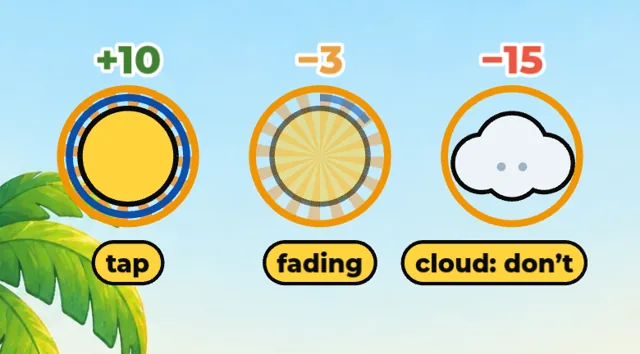
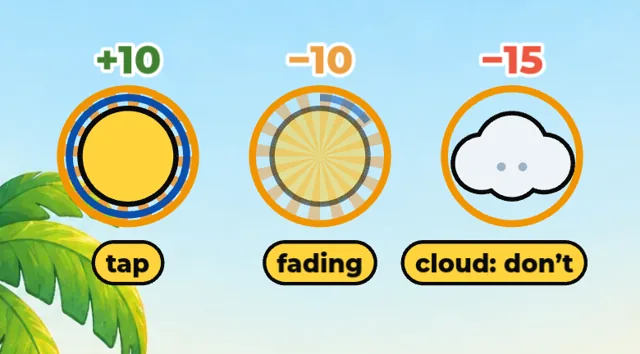
Add files via upload

Changed region(s): [[0.4375, 0.1243, 0.5625, 0.2175]]

diff --git a/src/modules/sunny-tap/GameScene.js b/src/modules/sunny-tap/GameScene.js
@@ -1,11 +1,12 @@
-// Sunny Tap gameplay (build pack RS1 v1.1). Rules: ./rules.js (port of tests/sunny-tap-reference.py) · brief: ./README.md
-// A 10 s unscored warm-up, then one 1:50 round on a visible clock: Fair · Wipeout · Fair · Wipeout · Fair · Wipeout · Fair.
-// No phase labels, no retry. Tap a sun +10 · a sun fades −3 · a cloud or the empty sky −15 · the score never goes below 0.
+// Sunny Tap gameplay (build pack RS1 v1.2). Rules: ./rules.js (port of tests/sunny-tap-reference.py) · brief: ./README.md
+// A 10 s unscored warm-up, then 4 rounds of Fair 20 s + Wipeout 10 s on a visible 2:00 clock, each followed by a mini-report
+// (gained · faded · mis-taps · net + the score line). The game clock stops during a report. No phase labels, no retry.
+// Tap a sun +10 · a sun fades −10 · a cloud or the empty sky −15 · the score never goes below 0.
 import { ModuleScene } from '../../core/ModuleScene.js';
 import { C, hex } from '../../core/theme.js';
 import { sfx } from '../../core/sfx.js';
 import { charImg } from '../../core/ui/dom.js';
-import { schedule, wipeoutEvents, warmupEvents, scoreRound, phaseOf, PHASES, PTS, ROUND_S, WARMUP_S, OFFICIAL_SEED, CASUAL_SEED, FAIR } from './rules.js';
+import { schedule, wipeoutEvents, warmupEvents, scoreRound, roundReport, phaseOf, PHASES, PTS, ROUND_S, WARMUP_S, ROUNDS, ROUND_LEN, OFFICIAL_SEED, CASUAL_SEED, FAIR, WIPE } from './rules.js';
 import bgUrl from './assets/bg-beach.webp';
 
 const q = new URLSearchParams(location.search);
@@ -13,6 +14,7 @@ const SPEED = (location.hostname === 'localhost' || q.get('mock') === '1') && Nu
 const SKY = { x0: 0, x1: 720, y0: 0, y1: 1280 }; // event x/y are fractions of the design space
 const R_SUN = 54, HIT_R = 70;
 const PRACTICE_S = 20;
+const AUTO_CONTINUE_MS = 20000; // a mini-report continues by itself after 20 s
 
 export default class GameScene extends ModuleScene {
   preload() {
@@ -31,6 +33,7 @@ export default class GameScene extends ModuleScene {
     this.calm = !this.tut && (this.options.wipeouts ? this.options.wipeouts === 'off' : this.casual);
     this.seed = this.calm || this.tut ? CASUAL_SEED : OFFICIAL_SEED;
     this.stage = 'intro'; this.live = []; this.taps = []; this.fades = []; this.points = 0; this.idx = 0; this.events_ = [];
+    this.repMs = 0; this.repStart = null; this.reports = []; this.line = [[0, 0]]; this.reportLayer = null;
     this.clock = this.pill(W / 2, 64, 200, this.fmtS(this.tut ? PRACTICE_S : ROUND_S), 40);
     this.scoreT = this.txt(W / 2, 168, '0', { fontSize: '64px', color: C.ink, stroke: C.white, strokeThickness: 10 }).setDepth(900);
     this.scoreL = this.txt(W / 2, 214, 'points', { fontSize: '24px', fontStyle: '700', color: C.ink, stroke: C.white, strokeThickness: 6 }).setDepth(900);
@@ -50,7 +53,11 @@ export default class GameScene extends ModuleScene {
   }
   fmtS(s) { const k = Math.max(0, Math.ceil(s - 1e-9)); return `${Math.floor(k / 60)}:${String(k % 60).padStart(2, '0')}`; }
   /** Seconds on the current stage's clock (wall clock minus pauses, like the core round timer; test builds may run faster). */
-  now() { return this.startedAt ? ((performance.now() - this.startedAt - this.pausedMs - (this.pauseStart != null ? performance.now() - this.pauseStart : 0)) / 1000) * SPEED - this.stageT0 : 0; }
+  now() {
+    if (!this.startedAt) return 0;
+    const p = performance.now(), held = this.repMs + (this.repStart != null ? p - this.repStart : 0); // mini-reports stop the game clock
+    return ((p - this.startedAt - this.pausedMs - (this.pauseStart != null ? p - this.pauseStart : 0) - held) / 1000) * SPEED - this.stageT0;
+  }
 
   // ---------------------------------------------------------------- flow
   onStart() {
@@ -69,7 +76,7 @@ export default class GameScene extends ModuleScene {
       this.events_ = schedule(this.seed, null, true).filter((e) => e.t < PRACTICE_S); this.stageLen = PRACTICE_S; this.banner.setText('');
     } else if (stage === 'round') {
       this.events_ = this.calm ? schedule(this.seed, null, true) : schedule(this.seed).filter((e) => e.phase[0] === 'F'); // wipeouts join after F1
-      this.stageLen = ROUND_S; this.banner.setText(''); this.points = 0; this.scoreT.setText('0'); this.lastPhase = null;
+      this.stageLen = ROUND_S; this.banner.setText(''); this.points = 0; this.scoreT.setText('0'); this.lastPhase = null; this.line = [[0, 0]]; this.nextReport = 1;
     }
   }
 
@@ -85,7 +92,8 @@ export default class GameScene extends ModuleScene {
 
   tick() {
     if (this.frozen || this.ended || !['warm', 'practice', 'round'].includes(this.stage)) return;
-    const t = this.now();
+    let t = this.now();
+    if (this.stage === 'round' && this.nextReport <= ROUNDS && t >= this.nextReport * ROUND_LEN) t = this.nextReport * ROUND_LEN; // never run past a report
     if (this.stage === 'round' && !this.calm && !this.wipesAdded && t >= 20) this.addWipeouts();
     while (this.idx < this.events_.length && this.events_[this.idx].t <= t) this.spawn(this.events_[this.idx++]);
     for (const o of [...this.live]) {
@@ -95,6 +103,7 @@ export default class GameScene extends ModuleScene {
     }
     if (this.stage === 'round') {
       this.clock.text.setText(this.fmtS(ROUND_S - t));
+      if (this.nextReport <= ROUNDS && t >= this.nextReport * ROUND_LEN) return this.showReport(this.nextReport++);
       const ph = phaseOf(t);
       if (ph !== this.lastPhase) { this.phaseChange(this.lastPhase, ph, t); this.lastPhase = ph; }
     } else if (this.stage === 'practice') this.clock.text.setText(this.fmtS(PRACTICE_S - t));
@@ -108,7 +117,7 @@ export default class GameScene extends ModuleScene {
     const rest = this.events_.slice(this.idx);
     this.wipes = wipeoutEvents(this.seed, this.f1HitRate);
     this.events_ = [...this.events_.slice(0, this.idx), ...[...rest, ...this.wipes].sort((p, q) => p.t - q.t)];
-    this.wipeRate = Math.max(4, 2.5 * this.f1HitRate);
+    this.wipeRate = Math.max(WIPE.min_rate, WIPE.adapt * this.f1HitRate);
   }
 
   phaseChange(prev, ph, t) {
@@ -117,6 +126,50 @@ export default class GameScene extends ModuleScene {
       if (this.points < (this.pointsAtWipe ?? 0)) { this.say('worried'); this.time.delayedCall(1500 / SPEED, () => !this.ended && this.say('happy')); }
     }
     if (ph && ph[0] === 'W') this.pointsAtWipe = this.points;
+  }
+
+  // ---------------------------------------------------------------- mini-reports (v1.2)
+  showReport(n) {
+    this.repStart = performance.now(); this.reportOpen = n; this.frozen = true;
+    const r = roundReport(this.taps, this.fades, n), a = (n - 1) * ROUND_LEN, b = n * ROUND_LEN;
+    this.reports.push(r); this.trace('st_report', { ...r, points: this.points });
+    const { W } = this, c = this.add.container(0, 0).setDepth(1100); this.reportLayer = c;
+    c.add(this.add.rectangle(W / 2, this.H / 2, W * 4, this.H * 4, 0x0b0b0b, 0.45).setInteractive());
+    c.add(this.add.graphics().fillStyle(hex(C.ink), 1).fillRoundedRect(50, 300, 620, 700, 34).fillStyle(hex(C.white), 1).fillRoundedRect(50, 290, 620, 700, 34).lineStyle(5, hex(C.ink), 1).strokeRoundedRect(50, 290, 620, 700, 34));
+    c.add(this.txt(W / 2, 350, `Round ${n} of ${ROUNDS}`, { fontSize: '40px' }));
+    const rows = [['Suns tapped', r.gained, C.green], ['Suns faded', r.lostFaded, C.orange], ['Mis-taps', r.lostMisTaps, C.red]];
+    rows.forEach(([label, v, col], i) => {
+      c.add(this.txt(110, 420 + i * 52, label, { fontSize: '30px', fontStyle: '700', align: 'left' }).setOrigin(0, 0.5));
+      c.add(this.txt(610, 420 + i * 52, `${v > 0 ? '+' : v < 0 ? '−' : ''}${Math.abs(v)}`, { fontSize: '32px', color: col, align: 'right' }).setOrigin(1, 0.5));
+    });
+    c.add(this.add.graphics().lineStyle(3, hex(C.ink), 1).lineBetween(100, 572, 620, 572));
+    c.add(this.txt(110, 606, 'This round', { fontSize: '32px', align: 'left' }).setOrigin(0, 0.5));
+    c.add(this.txt(610, 606, `${r.net > 0 ? '+' : r.net < 0 ? '−' : ''}${Math.abs(r.net)}`, { fontSize: '36px', color: r.net < 0 ? C.red : C.green, align: 'right' }).setOrigin(1, 0.5));
+    // the score over this round's 30 s: the climb, then the crash
+    const X0 = 110, X1 = 610, Y0 = 800, Y1 = 660, pts = this.line.filter(([t]) => t >= a && t <= b), start = [...this.line].reverse().find(([t]) => t <= a)?.[1] ?? 0;
+    const series = [[a, start], ...pts, [b, pts.length ? pts.at(-1)[1] : start]], top = Math.max(10, ...series.map(([, v]) => v));
+    const g = this.add.graphics(); g.lineStyle(2, hex(C.charcoal), 0.6).lineBetween(X0, Y0, X1, Y0).lineBetween(X0, Y0, X0, Y1);
+    g.fillStyle(hex(C.sun), 0.18).fillRect(X0 + (X1 - X0) * (20 / 30), Y1, (X1 - X0) * (10 / 30), Y0 - Y1);
+    g.lineStyle(6, hex(C.blue), 1).beginPath();
+    series.forEach(([t, v], i) => { const x = X0 + ((t - a) / ROUND_LEN) * (X1 - X0), y = Y0 - (v / top) * (Y0 - Y1); if (i) g.lineTo(x, y); else g.moveTo(x, y); });
+    g.strokePath(); c.add(g);
+    c.add(this.txt(X0, Y0 + 24, 'score this round', { fontSize: '22px', fontStyle: '600', color: C.charcoal, align: 'left' }).setOrigin(0, 0.5));
+    c.add(this.txt(X1, Y0 + 24, `${this.points} points`, { fontSize: '22px', fontStyle: '700', align: 'right' }).setOrigin(1, 0.5));
+    const go = (auto) => this.continueReport(n, auto);
+    c.add(this.btn(W / 2, 910, n < ROUNDS ? 'Continue' : 'Done', () => go(false), { w: 320, h: 92, size: 34 }));
+    this.reportGo = () => go(false); // test hook
+    this.autoTimer = this.time.delayedCall(AUTO_CONTINUE_MS / SPEED, () => go(true));
+    this.snapshot(); // a page closed here records the quit-at-report
+  }
+
+  continueReport(n, auto) {
+    if (this.reportOpen !== n) return;
+    const latency = Math.round(performance.now() - this.repStart);
+    this.autoTimer?.remove(); this.reportGo = null; this.reportLayer?.destroy(true); this.reportLayer = null;
+    this.repMs += performance.now() - this.repStart; this.repStart = null; this.reportOpen = null; this.frozen = false;
+    (this.continues ||= []).push(auto ? -latency : latency);
+    this.trace('st_continue', { round: n, continueLatency: latency, auto });
+    if (n >= ROUNDS) this.stageEnd();
   }
 
   stageEnd() {
@@ -182,7 +235,7 @@ export default class GameScene extends ModuleScene {
 
   addPoints(d, x, y, color, t) {
     const inRound = (this.stage === 'round' && phaseOf(t)) || (this.stage === 'practice' && t < PRACTICE_S);
-    if (inRound) { this.points = Math.max(0, this.points + d); this.scoreT.setText(String(this.points)); }
+    if (inRound) { this.points = Math.max(0, this.points + d); this.scoreT.setText(String(this.points)); if (this.stage === 'round') this.line.push([t, this.points]); }
     const f = this.txt(x, y - 20, (d > 0 ? '+' : '−') + Math.abs(d), { fontSize: '36px', color, stroke: C.white, strokeThickness: 8 });
     this.fx.add(f);
     this.tweens.add({ targets: f, y: y - 90, alpha: 0, duration: 700 / SPEED, onComplete: () => f.destroy() });
@@ -192,13 +245,14 @@ export default class GameScene extends ModuleScene {
 
   /** Test hook: tap the oldest live sun (a steady player). */
   botStep() {
-    if (this.ended || !this.running || !['warm', 'practice', 'round'].includes(this.stage)) return false;
+    if (this.reportGo) { this.reportGo(); return true; }
+    if (this.ended || !this.running || this.frozen || !['warm', 'practice', 'round'].includes(this.stage)) return false;
     const sun = this.live.find((o) => o.e.kind === 'sun'); if (!sun) return false;
     this.tapAt(sun.x, sun.y); return true;
   }
 
   metrics() {
-    const quitAt = this.ended || this.stage === 'done' ? null : this.stage === 'round' ? this.now() : 0;
+    const quitAt = this.ended || this.stage === 'done' ? null : this.stage === 'round' ? Math.min(this.now(), ROUND_S) : 0;
     if (this.tut) return { points: this.points, hits: this.taps.filter((x) => x[1] === 'hit').length, flags: '' };
     const sched = this.stage === 'round' || this.stage === 'done' ? [...this.events_] : [];
     const m = scoreRound(this.taps, this.fades, sched, quitAt);
@@ -206,10 +260,14 @@ export default class GameScene extends ModuleScene {
     if (m.panicCarry) flags.push('panicCarry');
     if (m.resilienceScore == null) flags.push('notEnoughEvidence');
     if (this.calm) flags.push('calm');
+    if (this.reportOpen) flags.push('quitAtReport'); // only seen in a partial snapshot: the page closed while a mini-report was showing
+    const wipeTaps = ['W1', 'W2', 'W3', 'W4'].map((w) => this.taps.filter((tp) => phaseOf(tp[0]) === w).length);
     return {
       resilienceScore: m.resilienceScore, speedShock: r3n(m.speedShock), accuracyShock: r3n(m.accuracyShock), hold: r3n(m.hold), errorCarryover: m.errorCarryover,
       points: m.displayScore, accuracy: Object.fromEntries(Object.entries(m.accuracy).map(([k, v]) => [k, r3n(v)])),
       hits: this.taps.filter((x) => x[1] === 'hit').length, misTaps: this.taps.filter((x) => x[1] === 'miss').length, fades: this.fades.length,
+      reports: this.reports.map((r) => [r.gained, r.lostFaded, r.lostMisTaps, r.net]), continueLatency: this.continues || [], atReport: this.reportOpen || '',
+      wipeTaps, // passivity in wipeouts (logged only)
       f1HitRate: this.f1HitRate ?? '', wipeRate: this.calm ? 0 : this.wipeRate ?? '', seed: this.seed, calm: this.calm,
       tapLog: this.taps.map((tp) => `${r3(tp[0])}${tp[1] === 'hit' ? 'h' + tp[2] : 'm'}`).join(' '), fadeLog: this.fades.map(r3).join(' '),
       flags: flags.join(','),
@@ -222,16 +280,16 @@ export default class GameScene extends ModuleScene {
     const put = (kind, fx, fy, k = 1) => { const e = { t: 0, kind, life: 1.6, x: fx, y: fy }; this.spawn(e); const o = this.live.at(-1); o.c.setScale(1); this.tweens.killTweensOf(o.c);
       if (o.ring) { o.ring.clear().lineStyle(8, hex(C.blue), 0.95).beginPath().arc(0, 0, R_SUN + 12, -Math.PI / 2, -Math.PI / 2 + k * Math.PI * 2).strokePath(); o.c.setAlpha(0.45 + 0.55 * k); } return o; };
     this.banner.setText(''); this.say('happy');
-    if (n === 0) { this.clock.text.setText('1:50'); this.scoreT.setText('120');
+    if (n === 0) { this.clock.text.setText('2:00'); this.scoreT.setText('120');
       put('sun', 0.25, 0.4); put('sun', 0.7, 0.3); put('sun', 0.55, 0.62, 0.6); put('cloud', 0.3, 0.7);
       this.callout(180, 512, 80, 'tap the suns', 180, 390); this.callout(360, 180, 60, 'your points', 560, 230); this.callout(360, 64, 56, 'the clock', 560, 140);
       return { x: 0, y: 20, w: 720, h: 1000 }; }
     if (n === 1) { this.scoreT.setText('120');
       const a = put('sun', 0.2, 0.45), b = put('sun', 0.5, 0.45, 0.15), c = put('cloud', 0.8, 0.45);
-      [[a, '+10', C.green], [b, '−3', C.orange], [c, '−15', C.red]].forEach(([o, s, col]) => this.callouts.push(this.txt(o.x, o.y - 110, s, { fontSize: '44px', color: col, stroke: C.white, strokeThickness: 8 }).setDepth(3001)));
+      [[a, '+10', C.green], [b, '−10', C.orange], [c, '−15', C.red]].forEach(([o, s, col]) => this.callouts.push(this.txt(o.x, o.y - 110, s, { fontSize: '44px', color: col, stroke: C.white, strokeThickness: 8 }).setDepth(3001)));
       this.callout(a.x, a.y, 76, 'tap', a.x, a.y + 120); this.callout(b.x, b.y, 76, 'fading', b.x, b.y + 120); this.callout(c.x, c.y, 76, 'cloud: don’t', c.x - 20, c.y + 120);
       return { x: 0, y: 400, w: 720, h: 400 }; }
-    if (n === 2) { this.clock.text.setText('1:50'); this.scoreT.setText('0'); this.banner.setText('Warm-up · it doesn’t count');
+    if (n === 2) { this.clock.text.setText('2:00'); this.scoreT.setText('0'); this.banner.setText('Warm-up · it doesn’t count');
       put('sun', 0.35, 0.45); put('sun', 0.7, 0.55, 0.5);
       this.callout(360, 300, 0, '↑ the first 10 seconds', 360, 372, 3000, false);
       return { x: 0, y: 20, w: 720, h: 760 }; }

diff --git a/src/modules/torch-talk/GameScene.js b/src/modules/torch-talk/GameScene.js
@@ -276,10 +276,12 @@ export default class GameScene extends ModuleScene {
   showNoteOverlay(highlightWords = null) {
     this.hideOverlay();
     const v = this.view();
-    const dim = this.add.rectangle(this.W / 2, this.H / 2, v.vw + 40, v.vh + 40, 0x0b0b0b, 0.45).setInteractive();
-    const n = this.noteCard(this.W / 2, this.L.noteY, 660, 300);
+    // alpha #36: the open note covers only the message area, so the word tiles below stay tappable while it's open
+    const nh = Math.max(200, Math.min(300, this.L.trayY - this.L.noteY - 56)), bottom = this.L.trayY - 8, top = v.top ?? this.L.noteY - 400;
+    const dim = this.add.rectangle(this.W / 2, (top + bottom) / 2, v.vw + 40, bottom - top, 0x0b0b0b, 0.45).setInteractive();
+    const n = this.noteCard(this.W / 2, this.L.noteY, 660, nh);
     this.noteWords = n.words;
-    const hint = this.txt(this.W / 2, this.L.noteY + 330, 'Tap anywhere to close', { fontSize: '24px', color: C.white });
+    const hint = this.txt(this.W / 2, this.L.noteY + nh + 22, 'Tap here to close · words below still work', { fontSize: '22px', color: C.white, stroke: C.ink, strokeThickness: 5 });
     this.overlay.add([dim, n, hint]);
     dim.on('pointerup', () => this.hideOverlay());
     this.trace('note_expand', { turn: this.turnIdx + 1 });
@@ -528,7 +530,7 @@ export default class GameScene extends ModuleScene {
       if (probe && this.mode === 'real') { rec.probe = probe; this.trace('learn_probe', { probe, pass: rec.pass, turn: rec.turn, itemId: it.id }); }
       rec.paraphrase = rec.pass && words.some((w) => !noteWords(it).has(norm(w))); // a correct message using words that aren't in the note
       this.trace('comm_message', { turn: rec.turn, itemId: rec.itemId, tag: rec.tag, words, ideal: rec.ideal, used: rec.used, pass: rec.pass, failReason: rec.failReason, usedShorthand: rec.usedShorthand });
-      outcome = it.mixup ? 'echo' : rec.pass ? 'pass' : 'fail';
+      outcome = it.mixup && rec.pass ? 'echo' : rec.pass ? 'pass' : 'fail'; // the scripted mix-up only follows a message that was understood (alpha #36)
     }
     this.phase = 'send';
     this.renderPanel();
@@ -688,10 +690,11 @@ export default class GameScene extends ModuleScene {
     this.clearCallouts(); this.hideOverlay(); this.bubble.setAlpha(0);
     const L = this.L;
     if (n === 0) { this.msg = this.item.ideal.slice(0, 2); this.renderPanel();
-      this.callout(360, L.noteY + Math.min(L.noteH, 200) / 2, 150, 'Noah’s note', 560, L.noteY - 10);
-      this.callout(200, L.trayY + L.tileH / 2, 70, 'tap words', 200, L.trayY - 40);
-      this.callout(530, L.btnY, 80, 'Send', 530, L.btnY - 100);
-      return [{ x: 0, y: L.noteY - 40, w: 720, h: L.trayY - L.noteY + 2 * L.tileH + 60 }, { x: 0, y: L.btnY - 160, w: 720, h: 230 }]; }
+      this.callout(96, L.noteY + 48, 40, 'Noah’s note', 300, L.noteY - 6, 3000, false); // small rings: never over the note's text (alpha #36)
+      this.callout(200, L.trayY + L.tileH / 2, 62, 'tap words', 200, L.trayY - 34);
+      this.callout(530, L.btnY, 76, 'Send', 530, L.btnY - 96);
+      const top = L.trayY + 2 * L.tileH + L.gap + 24; // the two crops never overlap, so no row is shown twice
+      return [{ x: 0, y: L.noteY - 40, w: 720, h: top - (L.noteY - 40) }, { x: 0, y: Math.max(top, L.btnY - 150), w: 720, h: L.btnY + 80 - Math.max(top, L.btnY - 150) }]; }
     if (n === 1) { this.renderPanel();
       this.callout(360, L.helpY + L.helpH / 2, 80, 'the 4 rules stay here', 360, L.helpY + 120);
       this.callout(this.W - 150, 64, 46, '? reopens this card', 440, 170);

diff --git a/src/modules/sunny-tap/rules.js b/src/modules/sunny-tap/rules.js
@@ -1,12 +1,13 @@
-// Sunny Tap rule engine: a port of tests/sunny-tap-reference.py (build pack RS1 v1.1). schedule() and scoreRound() must match
+// Sunny Tap rule engine: a port of tests/sunny-tap-reference.py (build pack RS1 v1.2). schedule() and scoreRound() must match
 // the reference exactly (tests/fixtures/sunny-tap-parity.json, from tools/st_parity_fixture.py), so Python's random.Random
 // (MT19937 + init_by_array, random(), uniform()) is reproduced bit for bit.
-export const PHASES = [['F1', 0, 20], ['W1', 20, 30], ['F2', 30, 50], ['W2', 50, 60], ['F3', 60, 80], ['W3', 80, 90], ['F4', 90, 110]];
-export const ROUND_S = 110, WARMUP_S = 10;
+// v1.2: 4 rounds of Fair 20 s + Wipeout 10 s = 2:00 of play; a mini-report after each round (the game clock stops).
+export const PHASES = [['F1', 0, 20], ['W1', 20, 30], ['F2', 30, 50], ['W2', 50, 60], ['F3', 60, 80], ['W3', 80, 90], ['F4', 90, 110], ['W4', 110, 120]];
+export const ROUND_S = 120, WARMUP_S = 10, ROUNDS = 4, ROUND_LEN = 30;
 export const POST = PHASES.filter(([n]) => n[0] === 'F' && n !== 'F1').map(([n]) => n);
 export const FAIR = { sun_every: 0.5, sun_life: 1.6, cloud_every: 4.0, cloud_life: 1.6 };
-export const WIPE = { min_rate: 4.0, adapt: 2.5, sun_life: 0.8, cloud_share: 0.3 };
-export const PTS = { hit: 10, fade: -3, miss: -15 };
+export const WIPE = { min_rate: 7.0, adapt: 4.5, sun_life: 0.6, cloud_share: 0.25 }; // v1.2: every skill level nets ~0 or less per round
+export const PTS = { hit: 10, fade: -10, miss: -15 }; // v1.2: a faded sun costs as much as a caught one earns
 export const EARLY = 8.0;
 export const OFFICIAL_SEED = 2026, CASUAL_SEED = 2027; // casual runs never see the official fair schedule (request #26)
 
@@ -84,6 +85,14 @@ export function warmupEvents(seed = OFFICIAL_SEED) {
   return byT(ev);
 }
 export function phaseOf(t) { for (const [n, a, b] of PHASES) if (a <= t && t < b) return n; return null; }
+
+/** The mini-report after round n (1–4): gained · lost to fades · lost to mis-taps · net (the reference's round_report). */
+export function roundReport(taps, fades, n) {
+  const a = (n - 1) * ROUND_LEN, b = n * ROUND_LEN;
+  const g = taps.filter((tp) => tp[1] === 'hit' && a <= tp[0] && tp[0] < b).length * PTS.hit, m = taps.filter((tp) => tp[1] === 'miss' && a <= tp[0] && tp[0] < b).length * PTS.miss;
+  const f = fades.filter((t) => a <= t && t < b).length * PTS.fade;
+  return { round: n, gained: g + 0, lostFaded: f + 0, lostMisTaps: m + 0, net: g + f + m + 0 }; // + 0 turns -0 into 0
+}
 
 const median = (xs) => { const s = [...xs].sort((p, q) => p - q), m = s.length >> 1; return s.length % 2 ? s[m] : (s[m - 1] + s[m]) / 2; };
 const sum = (xs) => xs.reduce((p, q) => p + q, 0);

diff --git a/src/modules/sunny-tap/index.js b/src/modules/sunny-tap/index.js
@@ -1,4 +1,4 @@
-// Sunny Tap · resilience (Liam). Brief: ./README.md · build pack: 11-game-concepts.md (RS1 v1.1). Always played last (request #25).
+// Sunny Tap · resilience (Liam). Brief: ./README.md · build pack: 11-game-concepts.md (RS1 v1.2). Always played last (request #25).
 // How-to images are screenshots of the real game UI with callouts: regenerate with `node tools/make-howto-shots.mjs sunny-tap`.
 // The how-to never mentions the wipeouts (the consent line and the end-of-suite debrief cover them).
 import s0 from './assets/howto-0.webp';
@@ -7,7 +7,7 @@ import s2 from './assets/howto-2.webp';
 
 export default {
   id: 'sunny-tap',
-  version: 2, // v1 was the retired "Sunny Tap" test module
+  version: 3, // v3 = v1.2: 4 rounds + mini-reports, fade −10, harder wipeouts (#37); v2 = v1.1; v1 was the retired test module
   title: 'Sunny Tap',
   tagline: 'Tap the suns before they fade. How many points can you keep?',
   trait: 'resilience',
@@ -16,14 +16,14 @@ export default {
   estMinutes: 3,
   playLast: true, // run order: always the final game (request #25)
   logEvents: [], // v1.8 policy: st_* events go to the round trace + tapLog / fadeLog
-  summaryKeys: ['resilienceScore', 'speedShock', 'accuracyShock', 'hold', 'errorCarryover', 'points', 'flags'],
+  summaryKeys: ['resilienceScore', 'speedShock', 'accuracyShock', 'hold', 'errorCarryover', 'points', 'continueLatency', 'flags'],
   howTo: [
-    { title: 'Your goal', body: 'Tap the suns before they fade. Score as many points as you can in 1:50.', shot: s0 },
-    { title: 'Suns yes, clouds no', body: 'Sun = +10. A sun that fades = −3. Tapping a cloud or the empty sky = −15.', shot: s1 },
+    { title: 'Your goal', body: 'Tap the suns before they fade. Score as many points as you can in 4 short rounds (2:00 in all). After each round you’ll see how it went.', shot: s0 },
+    { title: 'Suns yes, clouds no', body: 'Sun = +10. A sun that fades = −10. Tapping a cloud or the empty sky = −15.', shot: s1 },
     { title: 'Warm up first', body: 'A 10-second warm-up comes first. It doesn’t count.', shot: s2 },
   ],
   practice: { durationSec: null, showTimer: false, scored: false }, // 20 s at the fair pace
-  round: { durationSec: null, showTimer: false }, // the scene draws its own 1:50 clock
+  round: { durationSec: null, showTimer: false }, // the scene draws its own 2:00 clock (stopped during the mini-reports)
   metrics: [
     { key: 'points', label: 'Points', unit: '', primary: true, higherIsBetter: true },
     { key: 'hits', label: 'Suns tapped', unit: '' },

diff --git a/src/modules/fix-it-kit/GameScene.js b/src/modules/fix-it-kit/GameScene.js
@@ -15,7 +15,7 @@ const ms = (x) => x / SPEED;
 const IDLE_MS = 20000;
 const IMGS = import.meta.glob('./assets/{kit,prob}-*.webp', { eager: true, import: 'default' });
 const img = (name) => IMGS[`./assets/${name}.webp`];
-const L0 = { probY: 124, probH: 270, miaY: 470, trayY: 560, trayH: 200, btnY: 812, kitY: 900, cellW: 164, cellH: 170 };
+const L0 = { probY: 124, probH: 270, miaY: 470, trayY: 560, trayH: 200, btnY: 830, kitY: 900, cellW: 164, cellH: 170 }; // buttons sit in the gap between the tray and the kit (alpha #36)
 /** Practice: learn by doing (find 2 different fixes; fail-safe after 4 tries shows one working fix). */
 let L = L0;
 export const practiceMemo = { done: false, tries: 0, failSafe: false };
@@ -47,8 +47,8 @@ export default class GameScene extends ModuleScene {
     this.bubble = this.add.container(0, 0).setDepth(26);
     this.trayC = this.add.container(0, 0).setDepth(30);
     this.kitC = this.add.container(0, 0).setDepth(30);
-    this.tryBtn = this.btn(270, L.btnY, 'Try it', () => this.tryIt(), { w: 330, h: 96, size: 36, fill: C.sun }).setDepth(40);
-    this.doneBtn = this.btn(590, L.btnY, 'Done', () => this.done(), { w: 190, h: 80, size: 28, fill: C.white }).setDepth(40);
+    this.tryBtn = this.btn(250, L.btnY, 'Try it', () => this.tryIt(), { w: 360, h: 74, size: 34, fill: C.sun }).setDepth(40).setVisible(false);
+    this.doneBtn = this.btn(580, L.btnY, 'Done', () => this.done(), { w: 220, h: 74, size: 30, fill: C.white }).setDepth(40).setVisible(false); // shown with the first problem, not during the 3-2-1 (alpha #36)
     this.overlay = this.add.container(0, 0).setDepth(1100);
     this.input.on('dragstart', (p, o) => { o.setDepth(60); o.homeX = o.x; o.homeY = o.y; });
     this.input.on('drag', (p, o, x, y) => { o.x = x; o.y = y; });
@@ -302,6 +302,7 @@ export default class GameScene extends ModuleScene {
 
   // ---------------------------------------------------------------- rendering
   render() {
+    if (!this.ff) { this.tryBtn.setVisible(true); this.doneBtn.setVisible(true); }
     this.renderProblem(); this.renderTray(); this.renderKit();
     const on = !!this.ps && !this.ps.over && !this.busy;
     this.tryBtn.setAlpha(on && this.tray.length ? 1 : 0.55);

diff --git a/src/modules/torch-talk/scoring.js b/src/modules/torch-talk/scoring.js
@@ -60,9 +60,12 @@ export function score({ turns = [], idleNudges = 0, restartedAfterSetback = fals
   const askScore = 0.7 * mean(gapScores) + 0.3 * Math.max(0, 1 - unneededAsks / 8);
 
   const t6 = byTurn[6];
-  const repairQuality = t6 ? repairOf(t6.words, t6.fix) : 0;
-
-  const commScore = Math.round(100 * (WEIGHTS.meaning * meaningRate + WEIGHTS.adaptation * adaptation + WEIGHTS.ask * askScore + WEIGHTS.efficiency * efficiency + WEIGHTS.repair * repairQuality));
+  // alpha #36: the friend only asks back ("front?") when the T6 message was understood; when it wasn't, there was no mix-up to
+  // repair, so repair is n/a and its weight is shared out (older rounds always had a fix and score as before)
+  const repairNa = !!t6 && !t6.pass && t6.fix == null;
+  const repairQuality = repairNa ? null : t6 ? repairOf(t6.words, t6.fix) : 0;
+  const parts = WEIGHTS.meaning * meaningRate + WEIGHTS.adaptation * adaptation + WEIGHTS.ask * askScore + WEIGHTS.efficiency * efficiency;
+  const commScore = Math.round(100 * (repairNa ? parts / (1 - WEIGHTS.repair) : parts + WEIGHTS.repair * repairQuality));
   const flags = [];
   if (idleNudges >= 3) flags.push('idle'); // no round cap since v2.2: idle is only flagged, never cut short
   if (restartedAfterSetback) flags.push('restartedAfterSetback');

diff --git a/src/modules/sunny-tap/rescore.js b/src/modules/sunny-tap/rescore.js
@@ -2,7 +2,8 @@
 import { schedule, scoreRound } from './rules.js';
 
 export const primaryKey = 'resilienceScore';
-export function rederive(m) {
+export function rederive(m, version) {
+  if (version != null && Number(version) < 3) return null; // v1.1 rounds (module v2) used the old schedule and points: keep their stored scores
   if (typeof m?.tapLog !== 'string' || !m.seed) return null;
   const taps = m.tapLog.split(' ').filter(Boolean).map((s) => { const x = /^([\d.]+)(?:h([\d.]+)|m)$/.exec(s); return x ? [Number(x[1]), x[2] != null ? 'hit' : 'miss', x[2] != null ? Number(x[2]) : null] : null; }).filter(Boolean);
   const fades = String(m.fadeLog || '').split(' ').filter(Boolean).map(Number);
